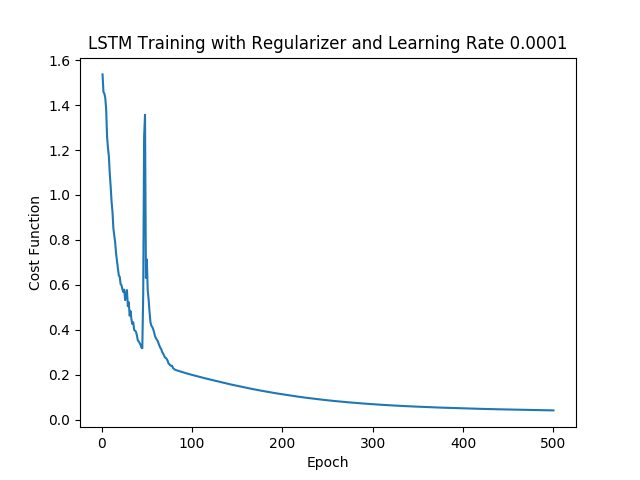
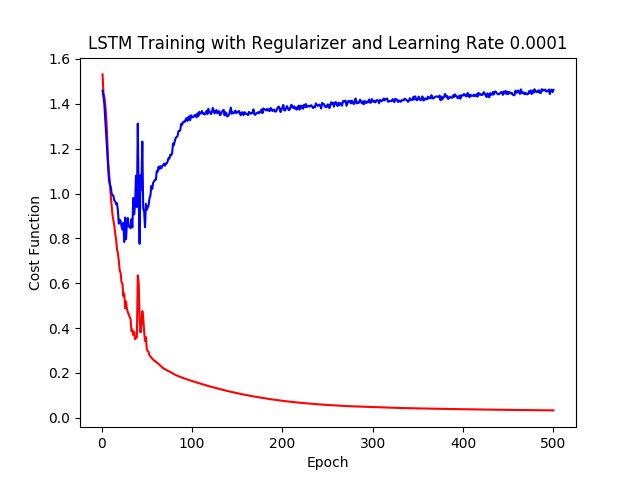
Include Validation Loss in Graph

diff --git a/mathquest_lstm.py b/mathquest_lstm.py
@@ -183,7 +183,7 @@ batchSize = 64 #to split the dataset into batches to prevent overflowing of the 
 lstmUnits = 512 #number of units for LSTM
 numDimensions = 50 #number of nodes in the hidden layer
 learning_rate = 1e-4 #learning rate of this model
-training_epoch = 500
+training_epoch = 600
 reg_param = 0.1
 
 #defining the input of the network
@@ -220,7 +220,7 @@ with tf.device("/gpu:0"):
 
 	init_op = tf.global_variables_initializer()
 
-f = open("lstm_190319_smalldata_500epoch.txt", 'w')
+f = open("lstm_190320_smalldata_600epoch.txt", 'w')
 f.write("Result of the Experiment\n\n")
 
 # #Phase 3 : Setting up the starting of the network evaluation (session setup)
@@ -266,9 +266,23 @@ with open('small_test_label.csv') as csv_file:
 		label_input = [float(i) for i in row]
 		test_label_sess.append(label_input)
 
+train_sess = list(zip(train_data_sess, train_label_sess))
+random.shuffle(train_sess)
+train_data_sess, train_label_sess = zip(*train_sess)
+
+val_sess = list(zip(val_data_sess, val_label_sess))
+random.shuffle(val_sess)
+val_data_sess, val_label_sess = zip(*val_sess)
+
+test_sess = list(zip(test_data_sess, test_label_sess))
+random.shuffle(test_sess)
+test_data_sess, test_label_sess = zip(*test_sess)
+
 f.write("Setup : LSTM Units = " + str(lstmUnits) + "\n\n")
 f.write("Regularizer = " + str(reg_param) + " and Learning Rate = " + str(learning_rate) + "\n\n")
-epoch_list, cost_list = [], []
+epoch_list, cost_list, cost_val_list = [], [], []
+
+saver = tf.train.Saver()
 
 with tf.Session() as sess:
 	sess.run(init_op)
@@ -276,6 +290,7 @@ with tf.Session() as sess:
 	for epoch in range(training_epoch):
 		ptr = 0
 		total_cost = 0.
+		total_cost_val = 0.
 		no_of_batches = int(len(train_data_sess) / batchSize)
 		no_of_batches_val = int(len(val_data_sess) / batchSize)
 		no_of_batches_test = int(len(test_data_sess) / batchSize)
@@ -287,8 +302,17 @@ with tf.Session() as sess:
 			_, cost = sess.run([optimizer, loss], feed_dict = {input_data : batch_in, labels : batch_out})
 			total_cost += cost / no_of_batches
 
+		ptr = 0
+		for i in range(no_of_batches_val):
+			batch_in, batch_out = val_data_sess[ptr:ptr+batchSize], val_label_sess[ptr:ptr+batchSize]
+			ptr += batchSize
+
+			cost_val = sess.run(loss, feed_dict = {input_data : batch_in, labels : batch_out})
+			total_cost_val += cost_val / no_of_batches_val
+
 		epoch_list.append(epoch + 1)
 		cost_list.append(total_cost)
+		cost_val_list.append(total_cost_val)
 
 		ptr = 0
 		acc_train, acc_val, acc_test = 0.0, 0.0, 0.0
@@ -317,7 +341,7 @@ with tf.Session() as sess:
 
 		print("Epoch", epoch + 1, "finished")
 
-		if epoch in [9, 49, 99, 149, 199, 249, 299, 349, 399, 449, 499]:
+		if epoch in [9, 59, 119, 179, 239, 299, 359, 419, 479, 539, 599]:
 			f.write("During the " + str(epoch + 1) + "-th epoch:\n")
 			f.write("Training Accuracy = " + str(100 * acc_train) + "\n")
 			f.write("Validation Accuracy = " + str(100 * acc_val) + "\n")
@@ -325,12 +349,14 @@ with tf.Session() as sess:
 
 	print("Optimization Finished")
 
-	plt.plot(epoch_list, cost_list)
+	saver.save(sess, "./model_190320_small.ckpt")
+	
+	plt.plot(epoch_list, cost_list, "r", epoch_list, cost_val_list, "b")
 	plt.xlabel("Epoch")
 	plt.ylabel("Cost Function")
 
 	plt.title("LSTM Training with Regularizer and Learning Rate " + str(learning_rate))
 
-	plt.savefig("LSTM_Training_190319_smalldata_500epoch.png")
+	plt.savefig("LSTM_Training_190320_600epoch_smalldata.png")
 
 	plt.clf()
